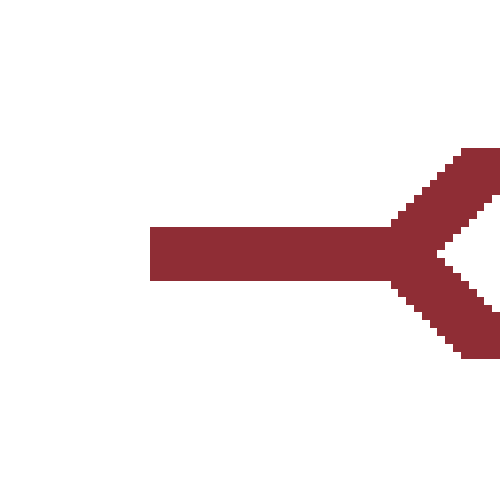
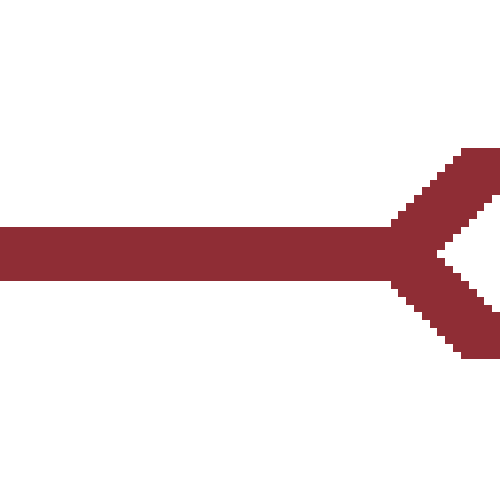
Fixed location of weapon

Changed region(s): [[0.0, 0.45, 0.3, 0.57]]

diff --git a/Weapon/src/main/java/sdu/cbse/group2/weapon/WeaponProcessor.java b/Weapon/src/main/java/sdu/cbse/group2/weapon/WeaponProcessor.java
@@ -8,10 +8,11 @@ import sdu.cbse.group2.common.services.IEntityProcessingService;
 public class WeaponProcessor implements IEntityProcessingService, ItemSPI {
     @Override
     public void process(GameData gameData, World world) {
-        world.getEntities().stream().filter(entity -> entity.getPart(ShootingPart.class) != null).forEach(entity -> {
-            ShootingPart shootingPart = entity.getPart(ShootingPart.class);
-            ItemPart itemPart = entity.getPart(ItemPart.class);
-            Entity weapon = itemPart.getItems(Weapon.class).get(0);
+        world.getEntities().stream().filter(entity -> entity.getPart(ShootingPart.class) != null).forEach(shooter -> {
+            ItemPart shooterItemPart = shooter.getPart(ItemPart.class);
+            Entity weapon = shooterItemPart.getItems(Weapon.class).get(0);
+            /*
+            ShootingPart shootingPart = shooter.getPart(ShootingPart.class);
             TimerPart weaponTimerPart = weapon.getPart(TimerPart.class);
 
             if (shootingPart.isShooting()) {
@@ -20,21 +21,23 @@ public class WeaponProcessor implements IEntityProcessingService, ItemSPI {
                 weaponTimerPart.setExpiration(2);
                 shootingPart.setShooting(false);
             }
-            weaponTimerPart.process(gameData, entity);
-            shootingPart.process(gameData, entity);
+            weaponTimerPart.process(gameData, shooter);
+            shootingPart.process(gameData, shooter);
 
             if (weaponTimerPart.getExpiration() <= 0) {
                 weapon.setGameSprite(new GameSprite("items/tongue.png", 30, 30));
-            }
-            PositionPart shooterPosition = entity.getPart(PositionPart.class);
+            }*/
+
+            PositionPart shooterPosition = shooter.getPart(PositionPart.class);
             PositionPart weaponPosition = weapon.getPart(PositionPart.class);
 
-            GameSprite shooterGameSprite = entity.getGameSprite();
+            GameSprite shooterGameSprite = shooter.getGameSprite();
             float bx = (float) (shooterPosition.getX() + (shooterGameSprite.getWidth()) * Math.cos(shooterPosition.getRadians()));
             float by = (float) (shooterPosition.getY() + (shooterGameSprite.getHeight()) * Math.sin(shooterPosition.getRadians()));
 
-            weaponPosition.setX(shooterPosition.getX());
-            weaponPosition.setY(shooterPosition.getY());
+            System.out.println(shooterPosition.getX() + " " + shooterPosition.getY());
+            weaponPosition.setX(bx - (shooterGameSprite.getWidth() / 2));
+            weaponPosition.setY(by - (shooterGameSprite.getHeight() / 2));
             weaponPosition.setRadians(shooterPosition.getRadians());
         });
     }

diff --git a/Weapon/src/main/java/sdu/cbse/group2/weapon/WeaponPlugin.java b/Weapon/src/main/java/sdu/cbse/group2/weapon/WeaponPlugin.java
@@ -32,7 +32,7 @@ public class WeaponPlugin implements IGamePluginService {
         float y = shooterPosition.getY();
         float radians = shooterPosition.getRadians();
 
-        Weapon tongue = new Weapon(new GameSprite("items/tongue.png", 30, 30));
+        Weapon tongue = new Weapon(new GameSprite("items/tongue.png", 60, 60));
 
         float bx = (float) (x + (shooterGameSprite.getWidth()) * Math.cos(radians));
         float by = (float) (y + (shooterGameSprite.getWidth()) * Math.sin(radians));
@@ -40,7 +40,7 @@ public class WeaponPlugin implements IGamePluginService {
         //Sets weapons position
         MovingPart movingPart = shooter.getPart(MovingPart.class);
         tongue.add(new MovingPart(movingPart.getMaxSpeed(), movingPart.getRotationSpeed()));
-        tongue.add(new PositionPart(shooterPosition.getX(),  shooterPosition.getY(), radians));
+        tongue.add(new PositionPart(bx - (shooterGameSprite.getWidth() / 2),  by - (shooterGameSprite.getHeight() / 2), radians));
         tongue.add(new TimerPart(2));
         return tongue;
     }
@@ -51,6 +51,6 @@ public class WeaponPlugin implements IGamePluginService {
             ItemPart itemPart = snake.getPart(ItemPart.class);
             itemPart.removeItems(Weapon.class);
         });
-        //TODO delete from world
+        world.getEntities(Weapon.class).forEach(world::removeEntity);
     }
 }
